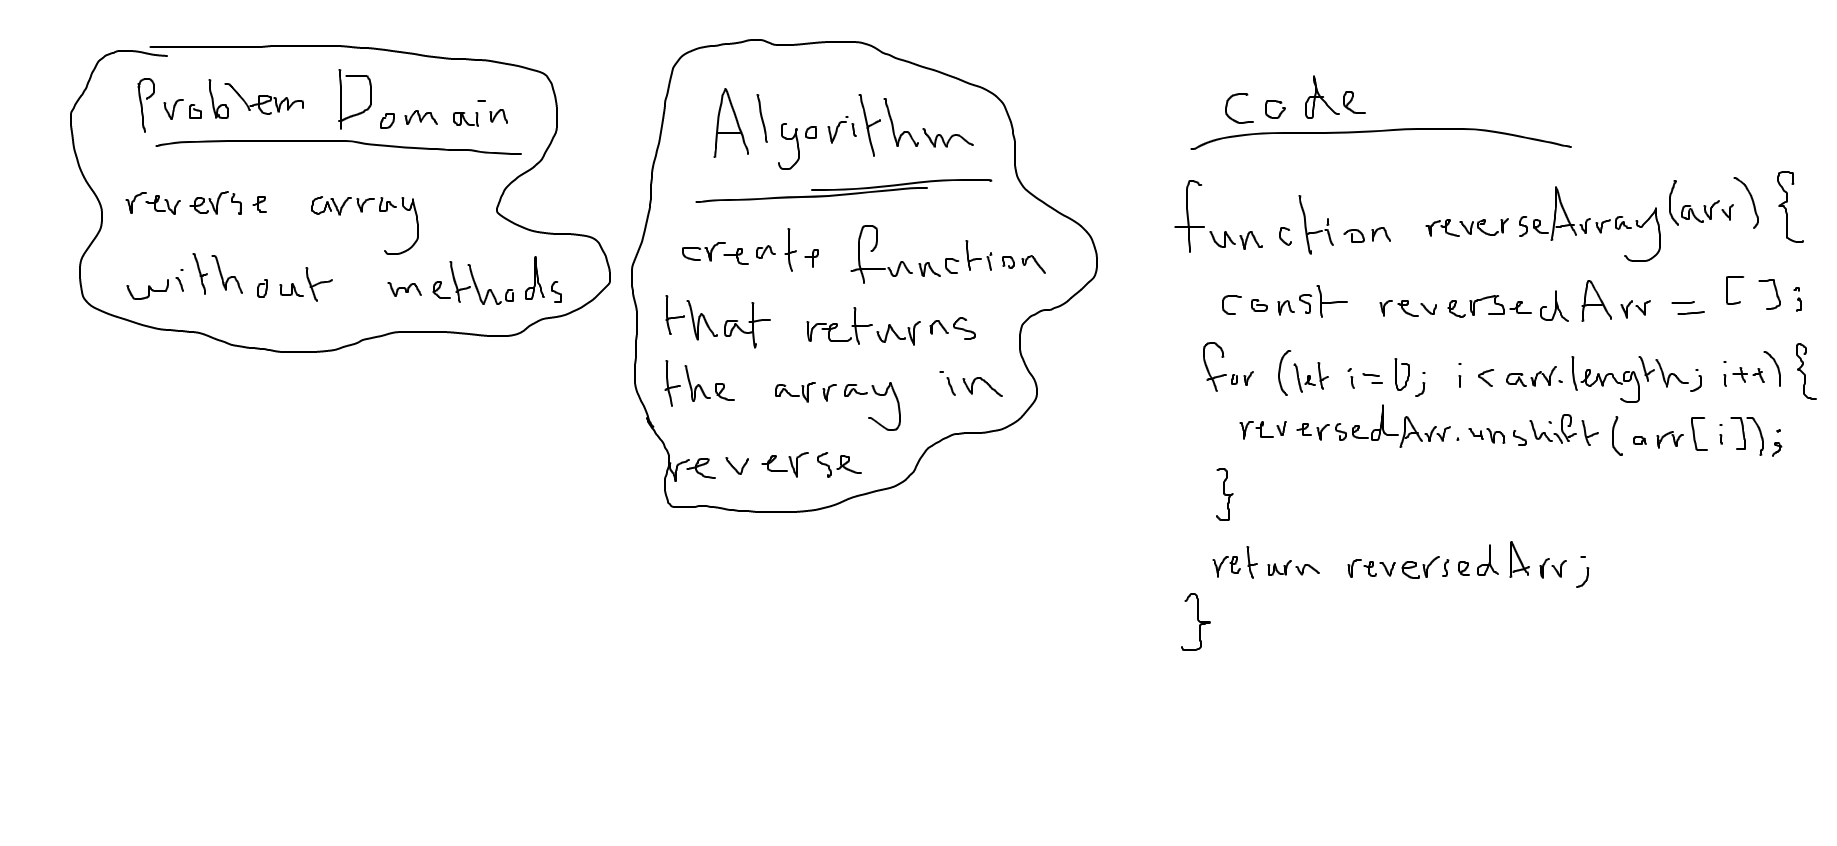
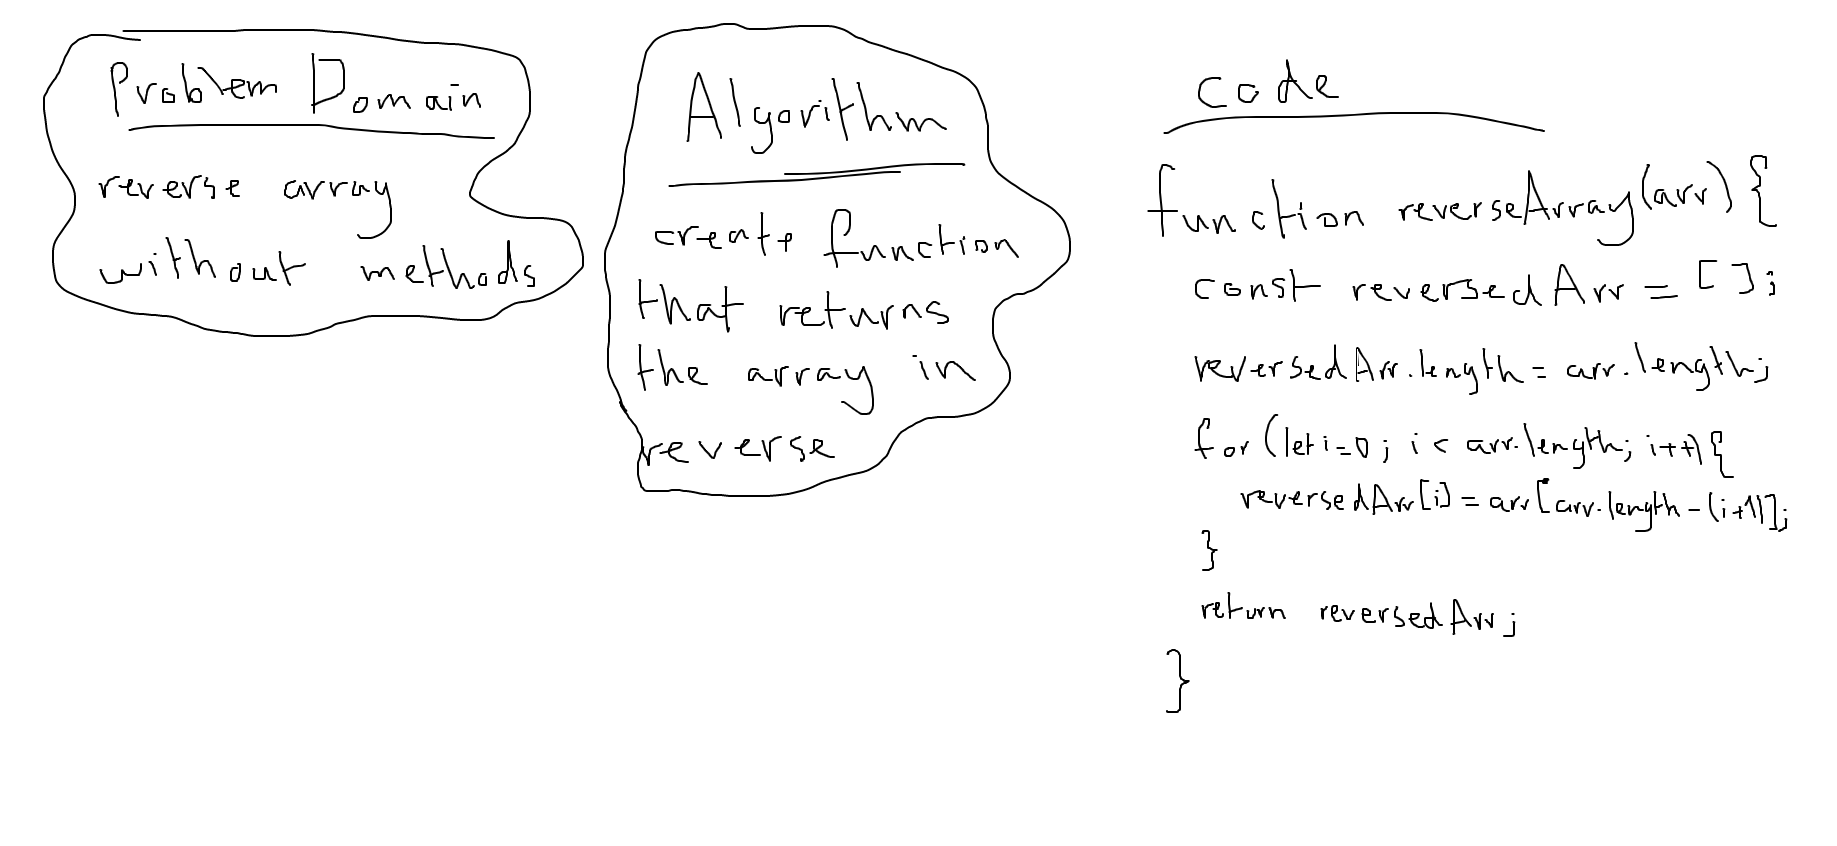
solved without methods

diff --git a/code-challenges/arrayReverse/array-reverse.js b/code-challenges/arrayReverse/array-reverse.js
@@ -1,10 +1,13 @@
 'use strict';
 
 function reverseArray(arr) {
-  const reversedArr = [];
+  let reversedArr = [];
+  reversedArr.length = arr.length;
+
   for (let i = 0; i < arr.length; i++) {
-    reversedArr.unshift(arr[i]);
+    reversedArr[i] = arr[arr.length - (i + 1)];
   }
+
   return reversedArr;
 }
 

diff --git a/README.md b/README.md
@@ -14,19 +14,7 @@ Each day, you'll add one new file to this folder to do your work for the day's a
 
 ### 401 Data Structures, Code Challenges
 
----
-
-[**Reverse an Array**](./code-challenges/arrayReverse/array-reverse.test.js)
-
-**Challenge**: Array should be reversed without utilizing built-in methods, while applying our own testing code
-
-**Approach & Efficiency**: I tried using the most basic code; a basic for loop and unshifting the values
-
-**Solution**:
-
-*run: npm test array-reverse*
-
-![arrayReverse img](./assets/array-reverse.jpg)
+Code Challenge 01: [**Array-reverse**](./code-challenges/arrayReverse/array-reverse.js)
 
 
 

diff --git a/code-challenges/arrayReverse/README.md b/code-challenges/arrayReverse/README.md
@@ -1,0 +1,13 @@
+# Array Reverse
+
+[**Reverse an Array**](./array-reverse.test.js)
+
+**Challenge**: Array should be reversed without utilizing built-in methods, while applying our own testing code
+
+**Approach & Efficiency**: I tried using the most basic code; a basic for loop and unshifting the values
+
+**Solution**:
+
+*run: npm test array-reverse*
+
+![arrayReverse img](../../assets/array-reverse.jpg)
